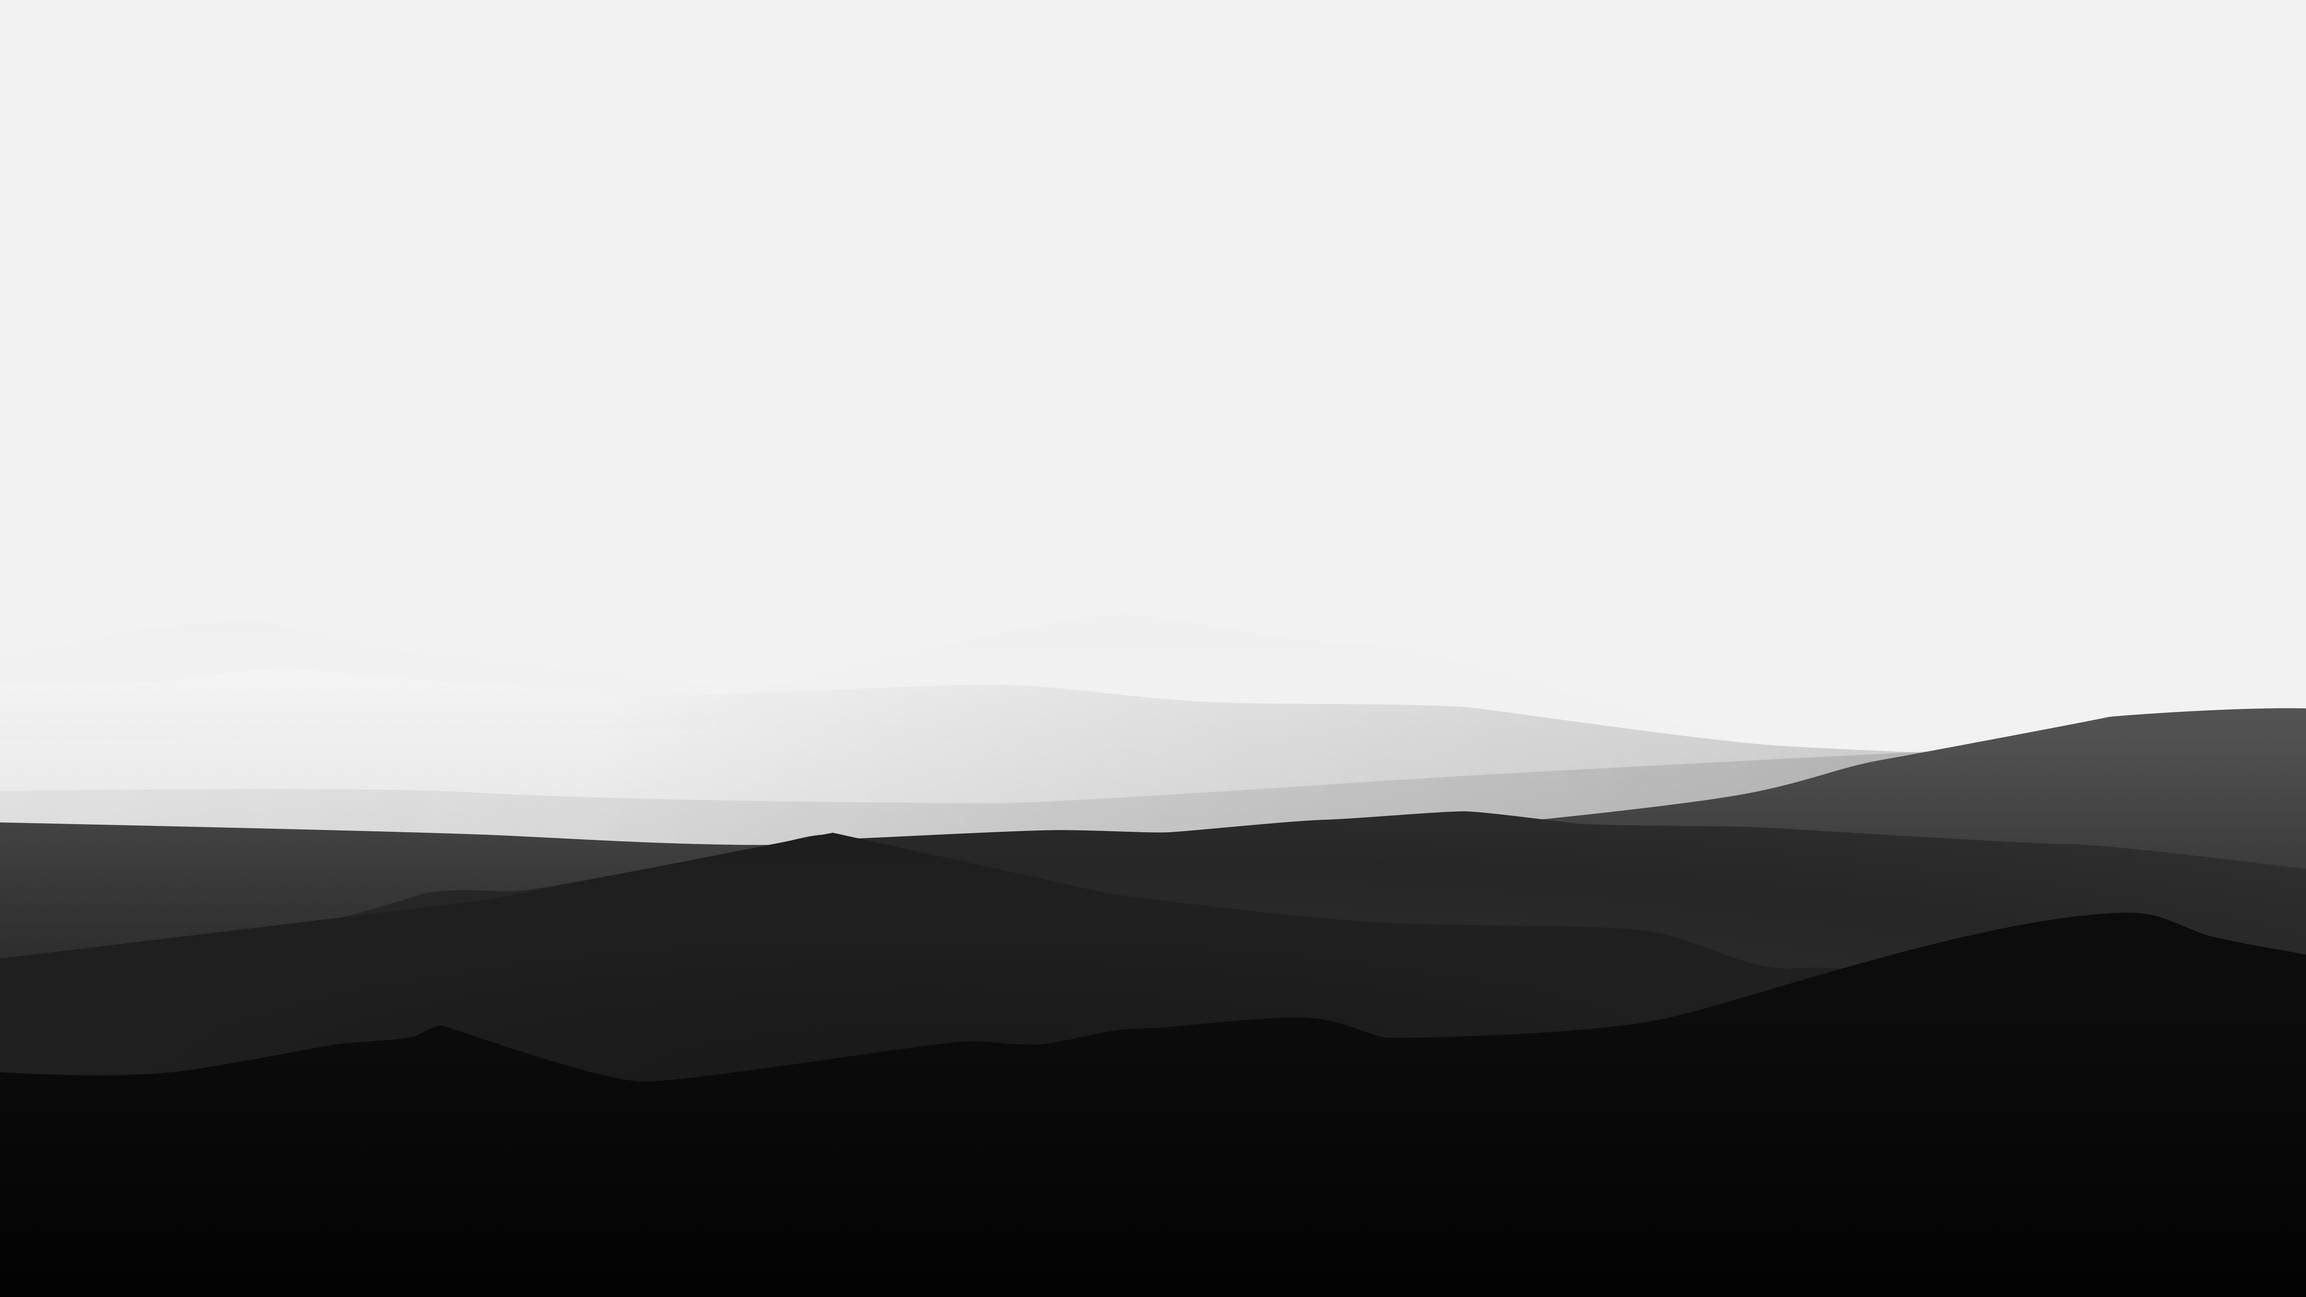
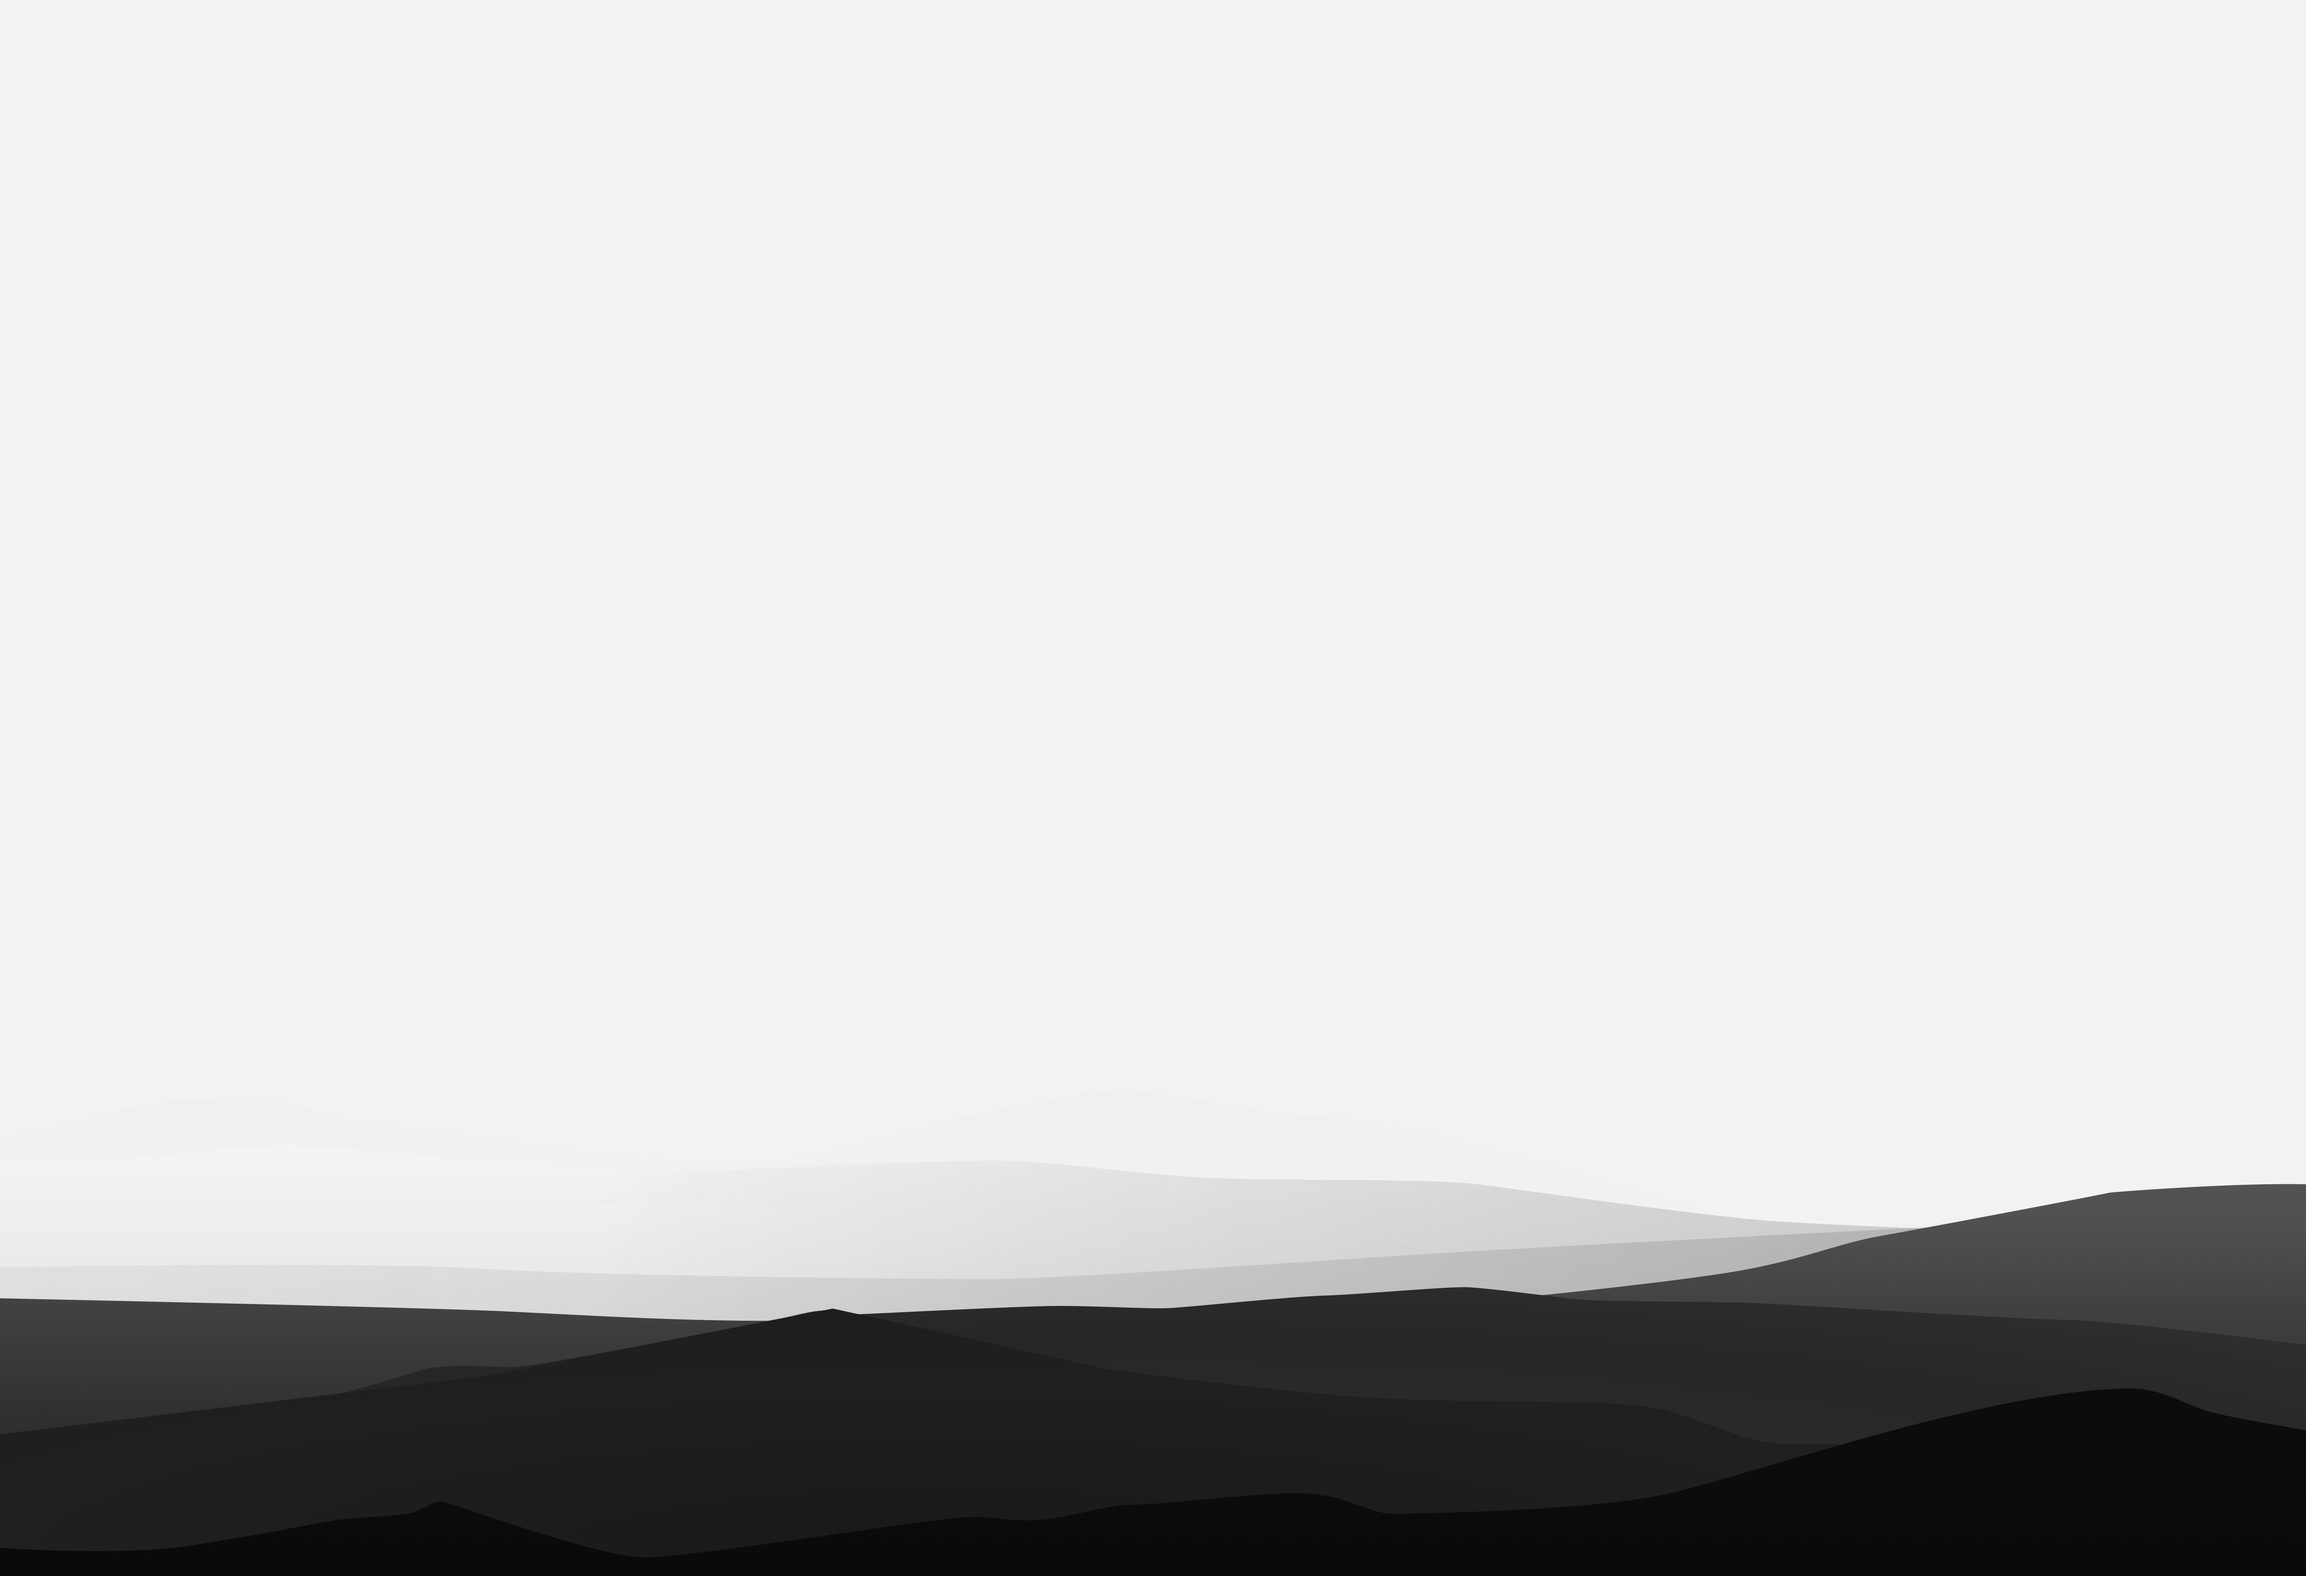
Responsive media queries added.

diff --git a/css/index.css b/css/index.css
@@ -10,12 +10,11 @@ body {
     font-family: 'Open Sans', sans-serif;
     font-size: 20px;
     font-weight: 300;
-    background: url("../img/wallpaper3.jpg");
+    background: url("../img/wallpaper.jpg");
     background-position: bottom;
     background-repeat: no-repeat;
     background-size: cover;
 }
-
 
 
 #upper-detail {
@@ -27,34 +26,35 @@ body {
 
 #main-page {
     text-align: center;
-    margin: 60px 10%;
+    margin: 40px 10%;
 }
 
 #profile-image {
     width: 15%;
-    max-width: 180px;
-    min-width: 100px;
+    max-width: 400px;
+    min-width: 120px;
 }
 
 #main-page h1 {
     font-weight: 400;
     margin: 25px 0 0 0;
+    font-size: 40px;
 }
 
 #main-page p {
     margin: 0 10%;
-    font-size: 18px;
+    font-size: 24px;
 }
 
 #main-page p span {
-    color: #333333;
-    font-size: 16px;
+    color: #5a5a5a;
+    font-size: 18px;
 }
 
 
 
 #flex-area {
-    margin: 50px 10%;
+    margin: 30px 10%;
     display: flex;
     flex-flow: row wrap;
     justify-content: center;
@@ -70,6 +70,7 @@ body {
     padding: 10px 25px;
     border-radius: 10px;
     font-weight: 600;
+    font-size: 22px;
     transition: background-color 0.3s;
 }
 
@@ -80,4 +81,16 @@ body {
 a {
     text-decoration: none;
     color: white;
+}
+
+@media only screen and (min-width: 768px) {
+    /* FOR LARGER SCREENS */
+    body { font-size: 40px; }
+    #main-page p { font-size: 24px; margin: 10px 10%; }
+    #main-page p span { font-size: 20px; }
+    #main-page h1 { font-size: 64px; }
+    #profile-image { width: 15%; max-width: 240px; min-width: 130px; }
+
+    .flex-item { font-size: 22px; }
+    #flex-area { margin: 20px 10%; }
 }

diff --git a/index.html b/index.html
@@ -16,8 +16,10 @@
         <img id="profile-image" src="img/profile.png">
 
         <h1>Arthur Brandão</h1>
-        <p>Graduando em Engenharia da Computação<br>
-            <span>Universidade Federal de Pernambuco – Centro de Informática</span></p>
+        <p>
+            Graduando em Engenharia da Computação<br>
+            <span>Universidade Federal de Pernambuco<br>
+            Centro de Informática</span></p>
 
 
         <div id="flex-area">
